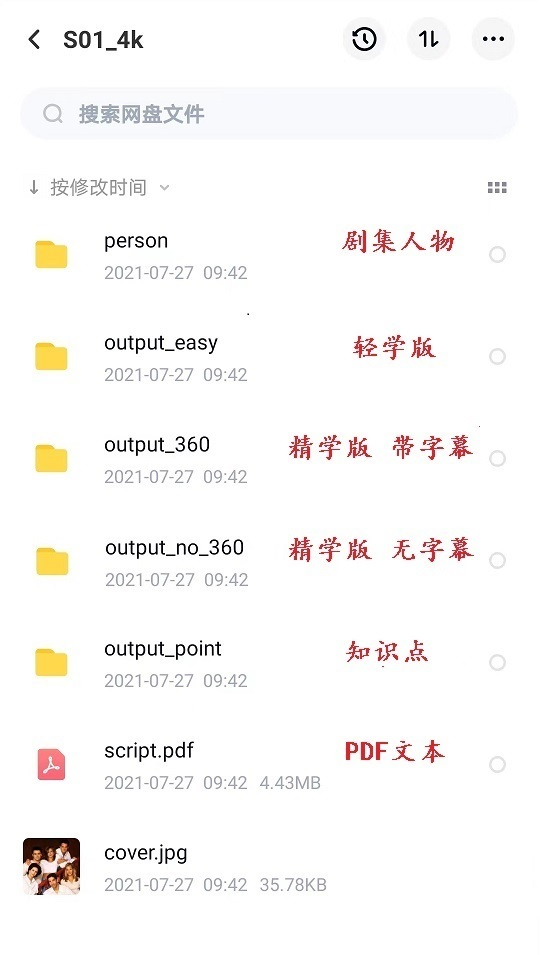
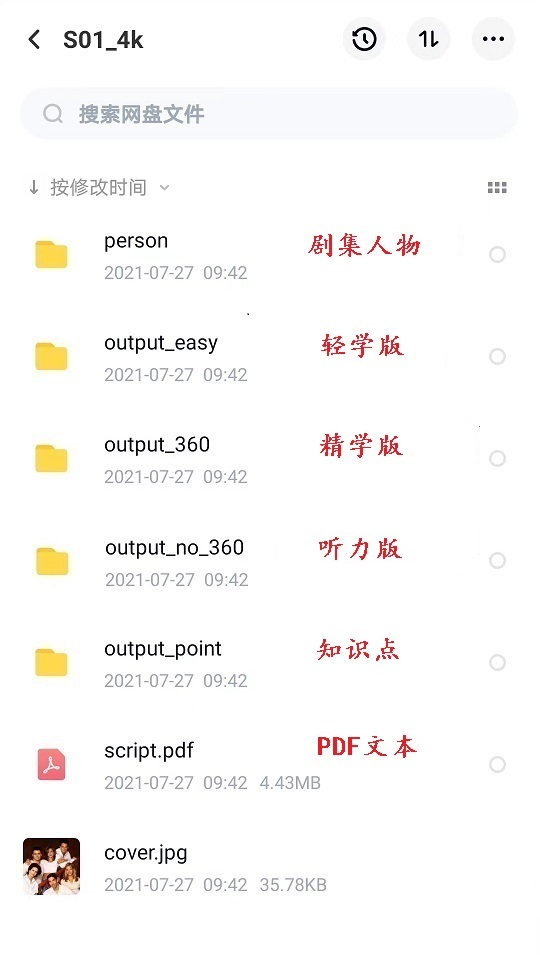
adjust ok

diff --git a/method.html b/method.html
@@ -43,7 +43,11 @@
 
   
 
-  每个学习片段5分钟左右,知识点包括单词、词组、惯用语<br><br><br>
+  每个学习片段5分钟左右,知识点包括单词、词组、惯用语<br><br>
+
+  由易到难，建议学习顺序为：轻学版、精学版、听力版<br><br>
+
+  只是想看剧时顺便记些单词，仅学轻学版即可<br><br><br>
 
   兴趣是最好的老师，通过难度分级并进行注解，串串英语根据学生兴趣和喜好提供各种类别的经过注解的可理解内容<br><br>
 
@@ -52,11 +56,11 @@
   结合跟读等方法，可以同步练习口语
 
 
-  <br><br><br>只是想看剧时顺便记些单词，仅学轻学版即可<br><br><br><br><br>
+  <br><br><br>
 
   <div class="card-panel cyan lighten-4 z-depth-0"><span>视频课件为标清360P，目录结构如下</span></div>
 
-  <img src="./img/list.jpg">
+  <img src="./img/list.jpg" width="100%">
 
 
 </body>
